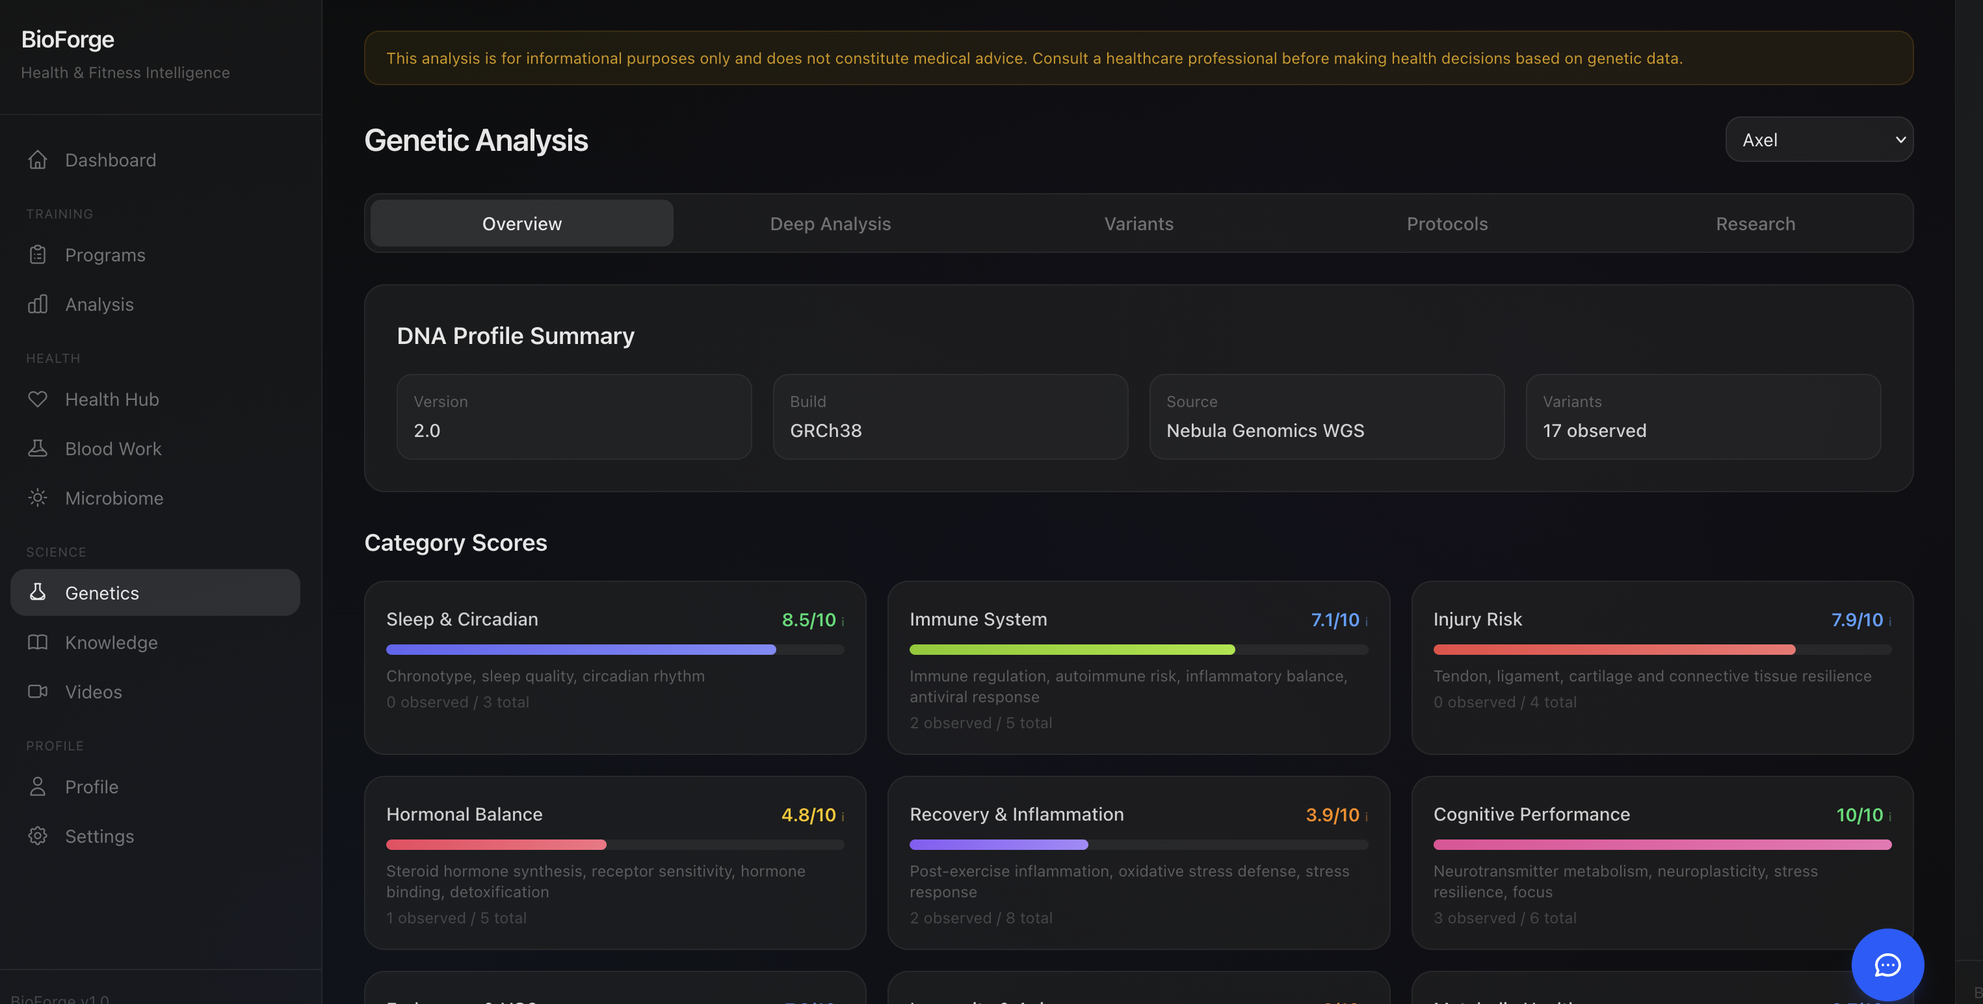
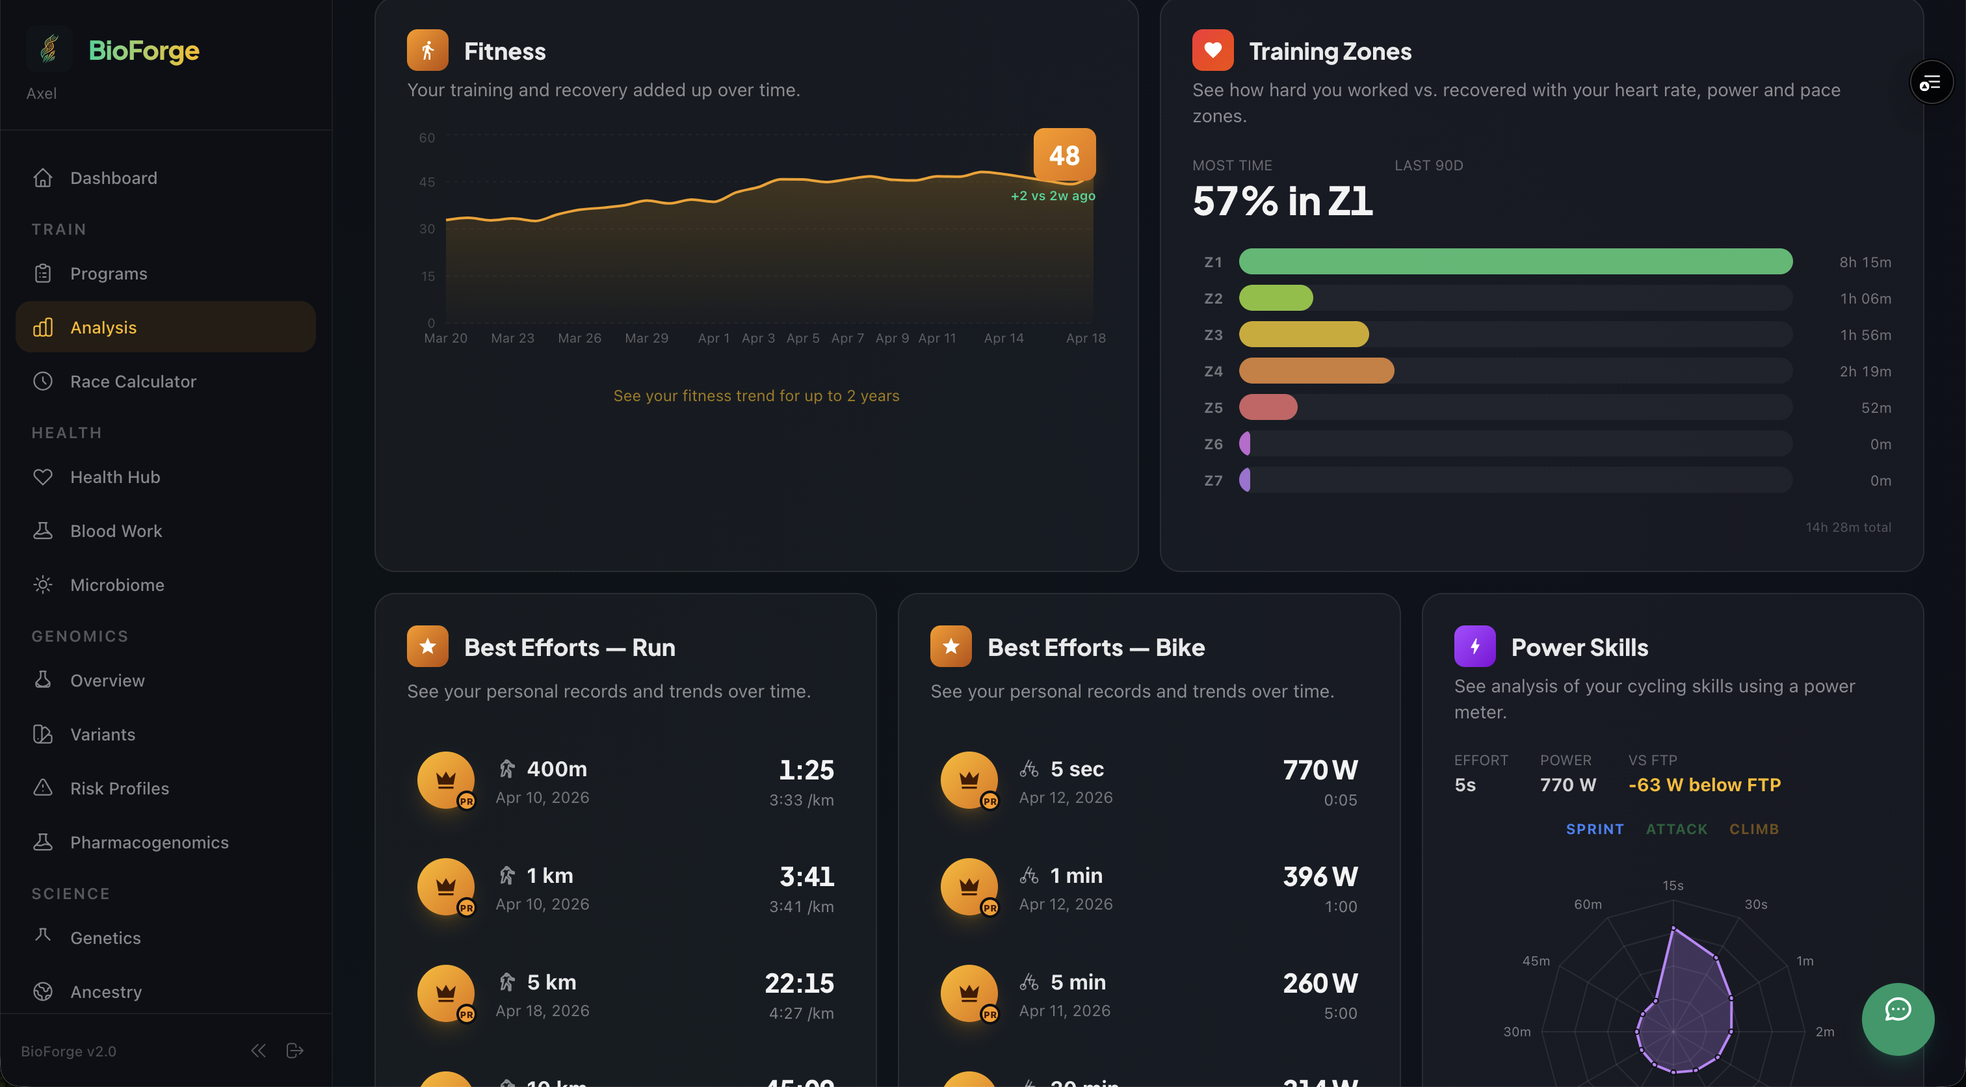
update creations page with accurate project descriptions and fresh screenshots
Rewrote all 10 project descriptions (FR + EN) to reflect actual features and tech stack.
Reordered by impact (BioForge, SafeFlow, HireFlow first). Updated tags to proper categories
(HealthTech, RegTech, SalesTech, HRTech). Refreshed E2V Outreach and BioForge cover images.

diff --git a/src/data/translations.js b/src/data/translations.js
@@ -151,77 +151,77 @@ export const translations = {
     // Creations Page
     creations: {
       title: 'Mes Créations',
-      subtitle: 'Projets personnels et outils développés pour mes clients',
+      subtitle: 'Produits conçus, développés et déployés en production — du concept au go-to-market',
       visitSite: 'Visiter le site',
       items: [
         {
-          id: 'safe-flow',
-          name: 'Safe-flow.ai',
-          description: "Application de bien-être et santé mentale utilisant l'IA pour personnaliser les exercices de respiration et méditation. Stack React/Vite avec backend Node.js.",
-          tags: ['AI', 'Health', 'React', 'Mobile'],
-          status: 'Live'
-        },
-        {
-          id: 'e2v-outreach',
-          name: 'E2V Outreach',
-          description: "Plateforme d'automatisation de prospection commerciale B2B pour Eco2Veritas. Intégration CRM, séquences email automatisées et analytics.",
-          tags: ['Automation', 'B2B', 'Sales', 'SaaS'],
-          status: 'Live'
-        },
-        {
-          id: 'saffron4joy',
-          name: 'Saffron4Joy',
-          description: "Projet e-commerce pour l'importation et distribution de safran premium d'Iran. Branding, stratégie go-to-market et plateforme de vente.",
-          tags: ['E-commerce', 'Import', 'Branding'],
-          status: 'Live'
-        },
-        {
           id: 'bioforge',
           name: 'BioForge',
-          description: "Hub d'intelligence santé et fitness personnel. Analyse cross-domain par IA de données génétiques, bilans sanguins, microbiome et historique médical.",
-          tags: ['AI', 'Health', 'Next.js', 'FastAPI'],
+          description: "Plateforme d'intelligence santé & performance. Unifie données génétiques (23andMe/VCF), bilans sanguins, microbiome et entraînement. Pipeline génomique avec scoring évolutif Evo 2, pharmacogénomique, recommandations exécutables par IA. Coach conversationnel avec contexte médical complet, génération de programmes d'entraînement personnalisés.",
+          tags: ['HealthTech', 'Genomics', 'AI', 'Next.js', 'FastAPI', 'pgvector'],
           status: 'Live'
         },
         {
-          id: 'e2v-workshop-form',
-          name: 'E2V Project Scoping',
-          description: "Système de project management conçu pour simplifier la collecte d'informations et maximiser l'engagement des prospects en phase de scoping.",
-          tags: ['Next.js', 'Sales Enablement', 'SaaS'],
-          status: 'Live'
-        },
-        {
-          id: 'video-studio',
-          name: 'Video Studio',
-          description: "Pipeline de production vidéo. Gestion de projets, scripts, traductions et exports audio pour la création de contenus professionnels.",
-          tags: ['Video', 'Production', 'Next.js'],
-          status: 'Live'
-        },
-        {
-          id: 'tyre-epr',
-          name: 'Tyre EPR Assessment',
-          description: "Outil interactif d'évaluation du potentiel de projets prospects dans l'industrie du pneumatique. Mesure des drivers d'importance, calcul de ROI et estimation de la fiabilité des réponses.",
-          tags: ['Recycling', 'ROI', 'Assessment'],
-          status: 'Live'
-        },
-        {
-          id: 'e2v-ui',
-          name: 'E2V UI',
-          description: "Bibliothèque d'inspirations UI et design system pour l'écosystème eco2Veritas. Composants réutilisables et prototypes d'interfaces.",
-          tags: ['UI/UX', 'Design System', 'Vite'],
-          status: 'Live'
-        },
-        {
-          id: 'recycling-calculator',
-          name: 'Recycling Assessment',
-          description: "Outil interactif d'évaluation du potentiel de projets prospects dans le recyclage mécanique. Mesure des drivers d'importance, calcul de ROI et estimation de la pertinence de l'évaluation.",
-          tags: ['Simulation', 'ROI', 'Assessment'],
+          id: 'safe-flow',
+          name: 'Safe-flow.ai',
+          description: "Plateforme wellness complète : app mobile React Native (iOS/Android) + webapp + landing page. 15+ techniques guidées (respiration, méditation), coaching IA personnalisé, intégration Garmin (HRV, stress, sommeil), gamification \"Paramis\" avec badges et niveaux progressifs. Audio guidé ElevenLabs, bilingue FR/EN, RGPD compliant.",
+          tags: ['Wellness', 'React Native', 'AI', 'Garmin', 'Flask'],
           status: 'Live'
         },
         {
           id: 'hireflow',
           name: 'HireFlow',
-          description: "Outil d'analyse d'offres d'emploi et gestion de candidatures. Matching intelligent et suivi du pipeline de candidature.",
-          tags: ['AI', 'Job Search', 'Next.js'],
+          description: "Plateforme de recherche d'emploi augmentée par IA. Scraping intelligent depuis 20+ sources (Greenhouse, Lever, Ashby, Adzuna...), scoring CV-offre 0-100, évaluation profonde 6 axes, génération de lettres de motivation multi-ton, banque de STAR stories, préparation entretiens et recherche compensation. Suivi candidatures full-cycle.",
+          tags: ['HRTech', 'AI', 'Next.js', 'Prisma', 'Scraping'],
+          status: 'Live'
+        },
+        {
+          id: 'e2v-outreach',
+          name: 'E2V Outreach',
+          description: "CRM & plateforme d'exécution commerciale full-stack. Gestion pipeline/contacts, séquences email/call automatisées avec templates dynamiques, sync bidirectionnelle HubSpot, envoi SendGrid, dashboard KPIs temps réel. Monitoring d'agents IA de prospection avec feed live et file d'approbation.",
+          tags: ['SalesTech', 'CRM', 'HubSpot', 'Next.js', 'FastAPI'],
+          status: 'Live'
+        },
+        {
+          id: 'video-studio',
+          name: 'Video Studio',
+          description: "Pipeline de production vidéo multilingue automatisée. Génération de scripts par IA, traduction avec gestion de glossaire terminologique, conversion SSML, et génération d'avatars vidéo via HeyGen. Workflow complet du brief produit au livrable final.",
+          tags: ['Video', 'AI', 'HeyGen', 'Next.js', 'FastAPI'],
+          status: 'Live'
+        },
+        {
+          id: 'tyre-epr',
+          name: 'Tyre EPR Platform',
+          description: "Plateforme de conformité REP (Responsabilité Élargie du Producteur) pour l'industrie du pneumatique. Dashboards multi-parties prenantes, suivi volumes injection/offset, détection d'anomalies mass balance, opérations terrain mobile-first avec mode offline, système de certificats 2 niveaux. Multi-pays (France ADEME, Mexique, EU).",
+          tags: ['RegTech', 'Compliance', 'React', 'TypeScript', 'Multi-country'],
+          status: 'Live'
+        },
+        {
+          id: 'recycling-calculator',
+          name: 'Recycling ROI Simulator',
+          description: "Simulateur interactif de ROI pour le recyclage mécanique. Modélisation des coûts incidents, temps d'audit, effectifs — calcul des économies, réduction charge de travail et timeline de retour sur investissement. Export Excel avec formules live pour validation CFO.",
+          tags: ['Sales Enablement', 'ROI', 'Simulation', 'Excel Export'],
+          status: 'Live'
+        },
+        {
+          id: 'e2v-workshop-form',
+          name: 'E2V Project Scoping',
+          description: "Outil de cadrage projet interactif pour la phase de scoping commercial. Collecte structurée des besoins prospects, qualification automatique et maximisation de l'engagement en amont du cycle de vente.",
+          tags: ['Sales Enablement', 'Next.js', 'Lead Qualification'],
+          status: 'Live'
+        },
+        {
+          id: 'e2v-ui',
+          name: 'E2V Design System',
+          description: "Bibliothèque de composants UI et design system pour l'écosystème eco2Veritas. Prototypage rapide d'interfaces, composants réutilisables et guidelines de marque.",
+          tags: ['UI/UX', 'Design System', 'Vite', 'Component Library'],
+          status: 'Live'
+        },
+        {
+          id: 'saffron4joy',
+          name: 'Saffron4Joy',
+          description: "Projet e-commerce pour l'importation et distribution de safran premium d'Iran. Branding complet, stratégie go-to-market et plateforme de vente en ligne.",
+          tags: ['E-commerce', 'Import', 'Branding', 'GTM'],
           status: 'Live'
         }
       ]
@@ -476,77 +476,77 @@ export const translations = {
     // Creations Page
     creations: {
       title: 'My Projects',
-      subtitle: 'Personal projects and tools developed for my clients',
+      subtitle: 'Products designed, built and deployed to production — from concept to go-to-market',
       visitSite: 'Visit site',
       items: [
         {
-          id: 'safe-flow',
-          name: 'Safe-flow.ai',
-          description: 'Wellness and mental health app using AI to personalize breathing and meditation exercises. React/Vite stack with Node.js backend.',
-          tags: ['AI', 'Health', 'React', 'Mobile'],
-          status: 'Live'
-        },
-        {
-          id: 'e2v-outreach',
-          name: 'E2V Outreach',
-          description: 'B2B sales prospecting automation platform for Eco2Veritas. CRM integration, automated email sequences and analytics.',
-          tags: ['Automation', 'B2B', 'Sales', 'SaaS'],
-          status: 'Live'
-        },
-        {
-          id: 'saffron4joy',
-          name: 'Saffron4Joy',
-          description: 'E-commerce project for importing and distributing premium saffron from Iran. Branding, go-to-market strategy and sales platform.',
-          tags: ['E-commerce', 'Import', 'Branding'],
-          status: 'Live'
-        },
-        {
           id: 'bioforge',
           name: 'BioForge',
-          description: 'Personal health & fitness intelligence hub. AI-powered cross-domain analysis of genetics, blood work, microbiome and medical history.',
-          tags: ['AI', 'Health', 'Next.js', 'FastAPI'],
+          description: 'Health & performance intelligence platform. Unifies genetic data (23andMe/VCF), blood panels, microbiome and training. Genomic pipeline with Evo 2 evolutionary scoring, pharmacogenomics, AI-powered actionable recommendations. Conversational coach with full medical context, personalized training program generation.',
+          tags: ['HealthTech', 'Genomics', 'AI', 'Next.js', 'FastAPI', 'pgvector'],
           status: 'Live'
         },
         {
-          id: 'e2v-workshop-form',
-          name: 'E2V Project Scoping',
-          description: 'Project management system designed to streamline information gathering and maximize prospect engagement during the scoping phase.',
-          tags: ['Next.js', 'Sales Enablement', 'SaaS'],
-          status: 'Live'
-        },
-        {
-          id: 'video-studio',
-          name: 'Video Studio',
-          description: 'Video production pipeline. Project management, scripts, translations and audio exports for professional content creation.',
-          tags: ['Video', 'Production', 'Next.js'],
-          status: 'Live'
-        },
-        {
-          id: 'tyre-epr',
-          name: 'Tyre EPR Assessment',
-          description: 'Interactive prospect project potential assessment tool for the tyre industry. Measures key importance drivers, ROI calculation and response reliability estimation.',
-          tags: ['Recycling', 'ROI', 'Assessment'],
-          status: 'Live'
-        },
-        {
-          id: 'e2v-ui',
-          name: 'E2V UI',
-          description: 'UI inspiration library and design system for the eco2Veritas ecosystem. Reusable components and interface prototypes.',
-          tags: ['UI/UX', 'Design System', 'Vite'],
-          status: 'Live'
-        },
-        {
-          id: 'recycling-calculator',
-          name: 'Recycling Assessment',
-          description: 'Interactive prospect project potential assessment tool for mechanical recycling. Measures key importance drivers, ROI calculation and assessment relevance estimation.',
-          tags: ['Simulation', 'ROI', 'Assessment'],
+          id: 'safe-flow',
+          name: 'Safe-flow.ai',
+          description: 'Full-stack wellness platform: React Native mobile app (iOS/Android) + webapp + landing page. 15+ guided techniques (breathwork, meditation), personalized AI coaching, Garmin integration (HRV, stress, sleep), "Paramis" gamification with badges and progressive levels. ElevenLabs guided audio, bilingual FR/EN, GDPR compliant.',
+          tags: ['Wellness', 'React Native', 'AI', 'Garmin', 'Flask'],
           status: 'Live'
         },
         {
           id: 'hireflow',
           name: 'HireFlow',
-          description: 'Job offer analysis and application management tool. Intelligent matching and application pipeline tracking.',
-          tags: ['AI', 'Job Search', 'Next.js'],
+          description: 'AI-augmented job search platform. Smart scraping from 20+ sources (Greenhouse, Lever, Ashby, Adzuna...), CV-to-job scoring 0-100, deep 6-axis evaluation, multi-tone cover letter generation, STAR story bank, interview prep and compensation research. Full-cycle application tracking.',
+          tags: ['HRTech', 'AI', 'Next.js', 'Prisma', 'Scraping'],
+          status: 'Live'
+        },
+        {
+          id: 'e2v-outreach',
+          name: 'E2V Outreach',
+          description: 'Full-stack CRM & sales execution platform. Pipeline/contact management, automated email/call sequences with dynamic templates, bidirectional HubSpot sync, SendGrid delivery, real-time KPI dashboard. AI prospecting agent monitoring with live feed and approval queue.',
+          tags: ['SalesTech', 'CRM', 'HubSpot', 'Next.js', 'FastAPI'],
+          status: 'Live'
+        },
+        {
+          id: 'video-studio',
+          name: 'Video Studio',
+          description: 'Automated multilingual video production pipeline. AI-powered script generation, translation with terminology glossary management, SSML conversion, and HeyGen video avatar generation. Complete workflow from product brief to final deliverable.',
+          tags: ['Video', 'AI', 'HeyGen', 'Next.js', 'FastAPI'],
+          status: 'Live'
+        },
+        {
+          id: 'tyre-epr',
+          name: 'Tyre EPR Platform',
+          description: 'EPR (Extended Producer Responsibility) compliance platform for the tyre industry. Multi-stakeholder dashboards, injection/offset volume tracking, mass balance anomaly detection, mobile-first field operations with offline mode, 2-tier certificate system. Multi-country support (France ADEME, Mexico, EU).',
+          tags: ['RegTech', 'Compliance', 'React', 'TypeScript', 'Multi-country'],
+          status: 'Live'
+        },
+        {
+          id: 'recycling-calculator',
+          name: 'Recycling ROI Simulator',
+          description: 'Interactive ROI simulator for mechanical recycling. Models incident costs, audit time, staffing — calculates savings, workload reduction and payback timeline. Excel export with live formulas for CFO validation.',
+          tags: ['Sales Enablement', 'ROI', 'Simulation', 'Excel Export'],
+          status: 'Live'
+        },
+        {
+          id: 'e2v-workshop-form',
+          name: 'E2V Project Scoping',
+          description: 'Interactive project scoping tool for the commercial qualification phase. Structured requirements gathering, automated qualification and prospect engagement maximization upstream of the sales cycle.',
+          tags: ['Sales Enablement', 'Next.js', 'Lead Qualification'],
+          status: 'Live'
+        },
+        {
+          id: 'e2v-ui',
+          name: 'E2V Design System',
+          description: 'UI component library and design system for the eco2Veritas ecosystem. Rapid interface prototyping, reusable components and brand guidelines.',
+          tags: ['UI/UX', 'Design System', 'Vite', 'Component Library'],
+          status: 'Live'
+        },
+        {
+          id: 'saffron4joy',
+          name: 'Saffron4Joy',
+          description: 'E-commerce project for importing and distributing premium saffron from Iran. Full branding, go-to-market strategy and online sales platform.',
+          tags: ['E-commerce', 'Import', 'Branding', 'GTM'],
           status: 'Live'
         }
       ]

diff --git a/src/data/content.js b/src/data/content.js
@@ -82,28 +82,91 @@ export const clients = [
 
 export const creations = [
   {
+    id: 'bioforge',
+    name: 'BioForge',
+    description: 'Plateforme d\'intelligence santé & performance. Unifie données génétiques, bilans sanguins, microbiome et entraînement. Pipeline génomique Evo 2, pharmacogénomique, recommandations IA exécutables. Coach conversationnel avec contexte médical complet.',
+    tags: ['HealthTech', 'Genomics', 'AI', 'Next.js', 'FastAPI', 'pgvector'],
+    url: 'https://bioforge-axel-benoists-projects.vercel.app',
+    image: '/projects/bioforge.png',
+    status: 'Live'
+  },
+  {
     id: 'safe-flow',
     name: 'Safe-flow.ai',
-    description: 'Application de bien-être et santé mentale utilisant l\'IA pour personnaliser les exercices de respiration et méditation. Stack React/Vite avec backend Node.js.',
-    tags: ['AI', 'Health', 'React', 'Mobile'],
+    description: 'Plateforme wellness complète : app mobile React Native + webapp. 15+ techniques guidées, coaching IA, intégration Garmin, gamification Paramis. Audio guidé ElevenLabs, bilingue, RGPD compliant.',
+    tags: ['Wellness', 'React Native', 'AI', 'Garmin', 'Flask'],
     url: 'https://safe-flow.ai',
     image: '/projects/safeflow.png',
     status: 'Live'
   },
   {
+    id: 'hireflow',
+    name: 'HireFlow',
+    description: 'Plateforme de recherche d\'emploi augmentée par IA. Scraping 20+ sources, scoring CV-offre 0-100, lettres de motivation multi-ton, STAR stories, préparation entretiens. Suivi candidatures full-cycle.',
+    tags: ['HRTech', 'AI', 'Next.js', 'Prisma', 'Scraping'],
+    url: 'https://hireflow-beta.vercel.app',
+    image: '/projects/hireflow.png',
+    status: 'Live'
+  },
+  {
     id: 'e2v-outreach',
     name: 'E2V Outreach',
-    description: 'Plateforme d\'automatisation de prospection commerciale B2B pour Eco2Veritas. Intégration CRM, séquences email automatisées et analytics.',
-    tags: ['Automation', 'B2B', 'Sales', 'SaaS'],
+    description: 'CRM & plateforme d\'exécution commerciale. Pipeline/contacts, séquences email/call automatisées, sync HubSpot, dashboard KPIs temps réel. Monitoring agents IA avec file d\'approbation.',
+    tags: ['SalesTech', 'CRM', 'HubSpot', 'Next.js', 'FastAPI'],
     url: 'https://e2-v-outreach-kappa.vercel.app',
     image: '/projects/e2v.png',
     status: 'Live'
   },
   {
+    id: 'video-studio',
+    name: 'Video Studio',
+    description: 'Pipeline de production vidéo multilingue automatisée. Scripts IA, traduction avec glossaire, SSML, avatars HeyGen. Du brief au livrable final.',
+    tags: ['Video', 'AI', 'HeyGen', 'Next.js', 'FastAPI'],
+    url: 'https://video-studio-jade.vercel.app',
+    image: '/projects/video-studio.png',
+    status: 'Live'
+  },
+  {
+    id: 'tyre-epr',
+    name: 'Tyre EPR Platform',
+    description: 'Plateforme de conformité REP pneumatique. Dashboards multi-parties prenantes, tracking volumes, détection anomalies, opérations terrain mobile-first, certificats 2 niveaux. Multi-pays.',
+    tags: ['RegTech', 'Compliance', 'React', 'TypeScript', 'Multi-country'],
+    url: 'https://tyre-epr.vercel.app',
+    image: '/projects/tyre-epr.png',
+    status: 'Live'
+  },
+  {
+    id: 'recycling-calculator',
+    name: 'Recycling ROI Simulator',
+    description: 'Simulateur ROI recyclage mécanique. Modélisation coûts, économies, timeline ROI. Export Excel avec formules live pour validation CFO.',
+    tags: ['Sales Enablement', 'ROI', 'Simulation', 'Excel Export'],
+    url: 'https://mechanical-recycling-calculator.vercel.app',
+    image: '/projects/recycling-calculator.png',
+    status: 'Live'
+  },
+  {
+    id: 'e2v-workshop-form',
+    name: 'E2V Project Scoping',
+    description: 'Outil de cadrage projet interactif. Collecte structurée des besoins, qualification automatique, engagement prospect en phase de scoping.',
+    tags: ['Sales Enablement', 'Next.js', 'Lead Qualification'],
+    url: 'https://e2v-workshop-form.vercel.app',
+    image: '/projects/e2v-workshop-form.png',
+    status: 'Live'
+  },
+  {
+    id: 'e2v-ui',
+    name: 'E2V Design System',
+    description: 'Bibliothèque de composants UI et design system pour l\'écosystème eco2Veritas. Prototypage rapide et guidelines de marque.',
+    tags: ['UI/UX', 'Design System', 'Vite', 'Component Library'],
+    url: 'https://e2v-ui.vercel.app',
+    image: '/projects/e2v-ui.png',
+    status: 'Live'
+  },
+  {
     id: 'saffron4joy',
     name: 'Saffron4Joy',
-    description: 'Projet e-commerce pour l\'importation et distribution de safran premium d\'Iran. Branding, stratégie go-to-market et plateforme de vente.',
-    tags: ['E-commerce', 'Import', 'Branding'],
+    description: 'Projet e-commerce pour l\'importation et distribution de safran premium d\'Iran. Branding complet, stratégie GTM et plateforme de vente.',
+    tags: ['E-commerce', 'Import', 'Branding', 'GTM'],
     url: 'https://saffron4joy.github.io/Website-S4J/',
     image: '/projects/saffron4joy.png',
     status: 'Live'
